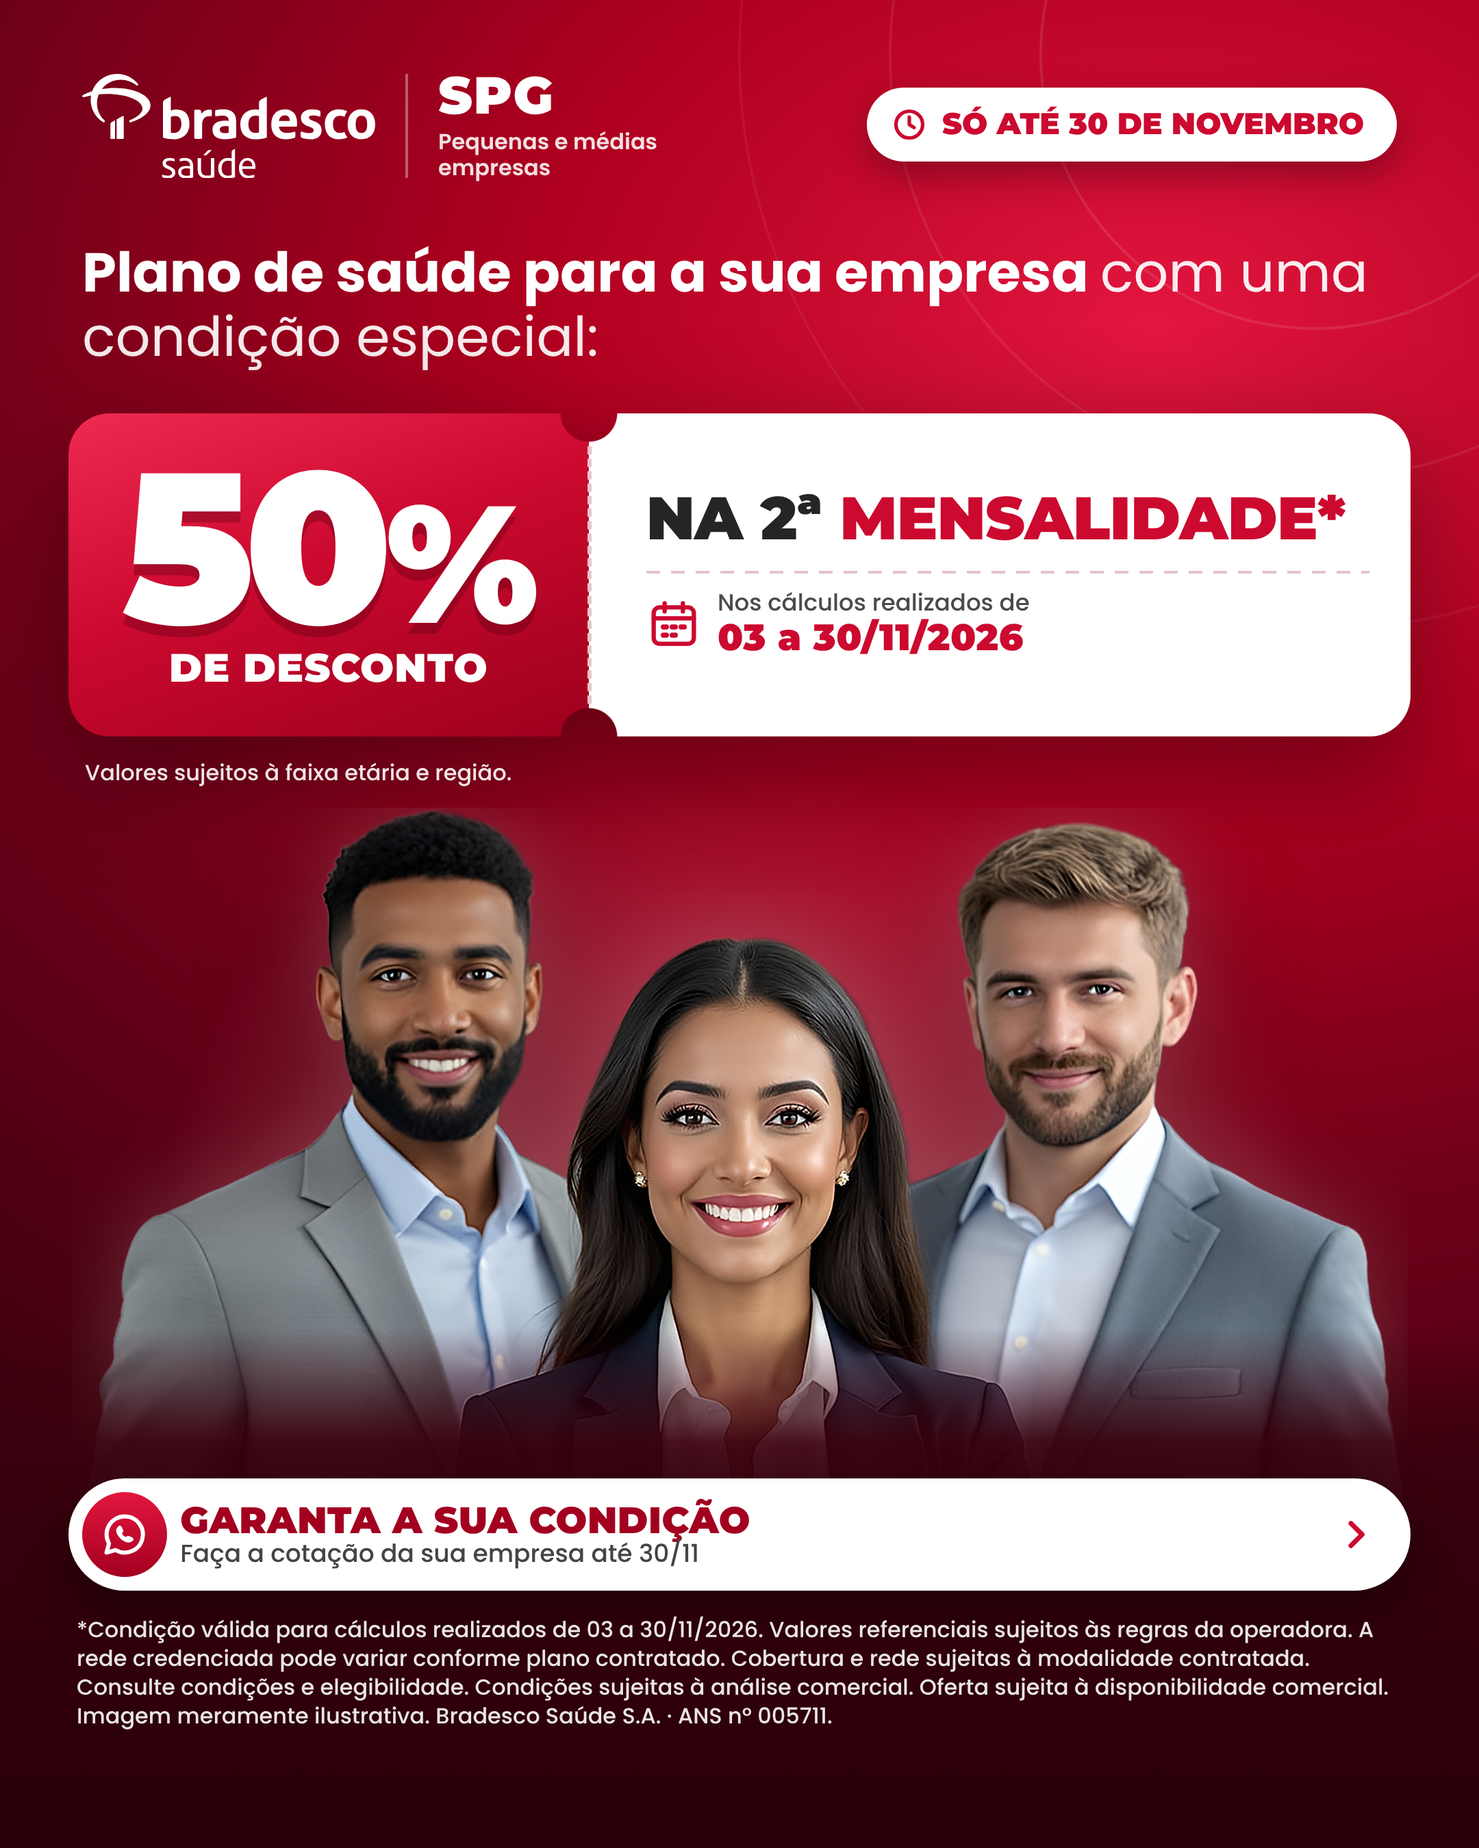
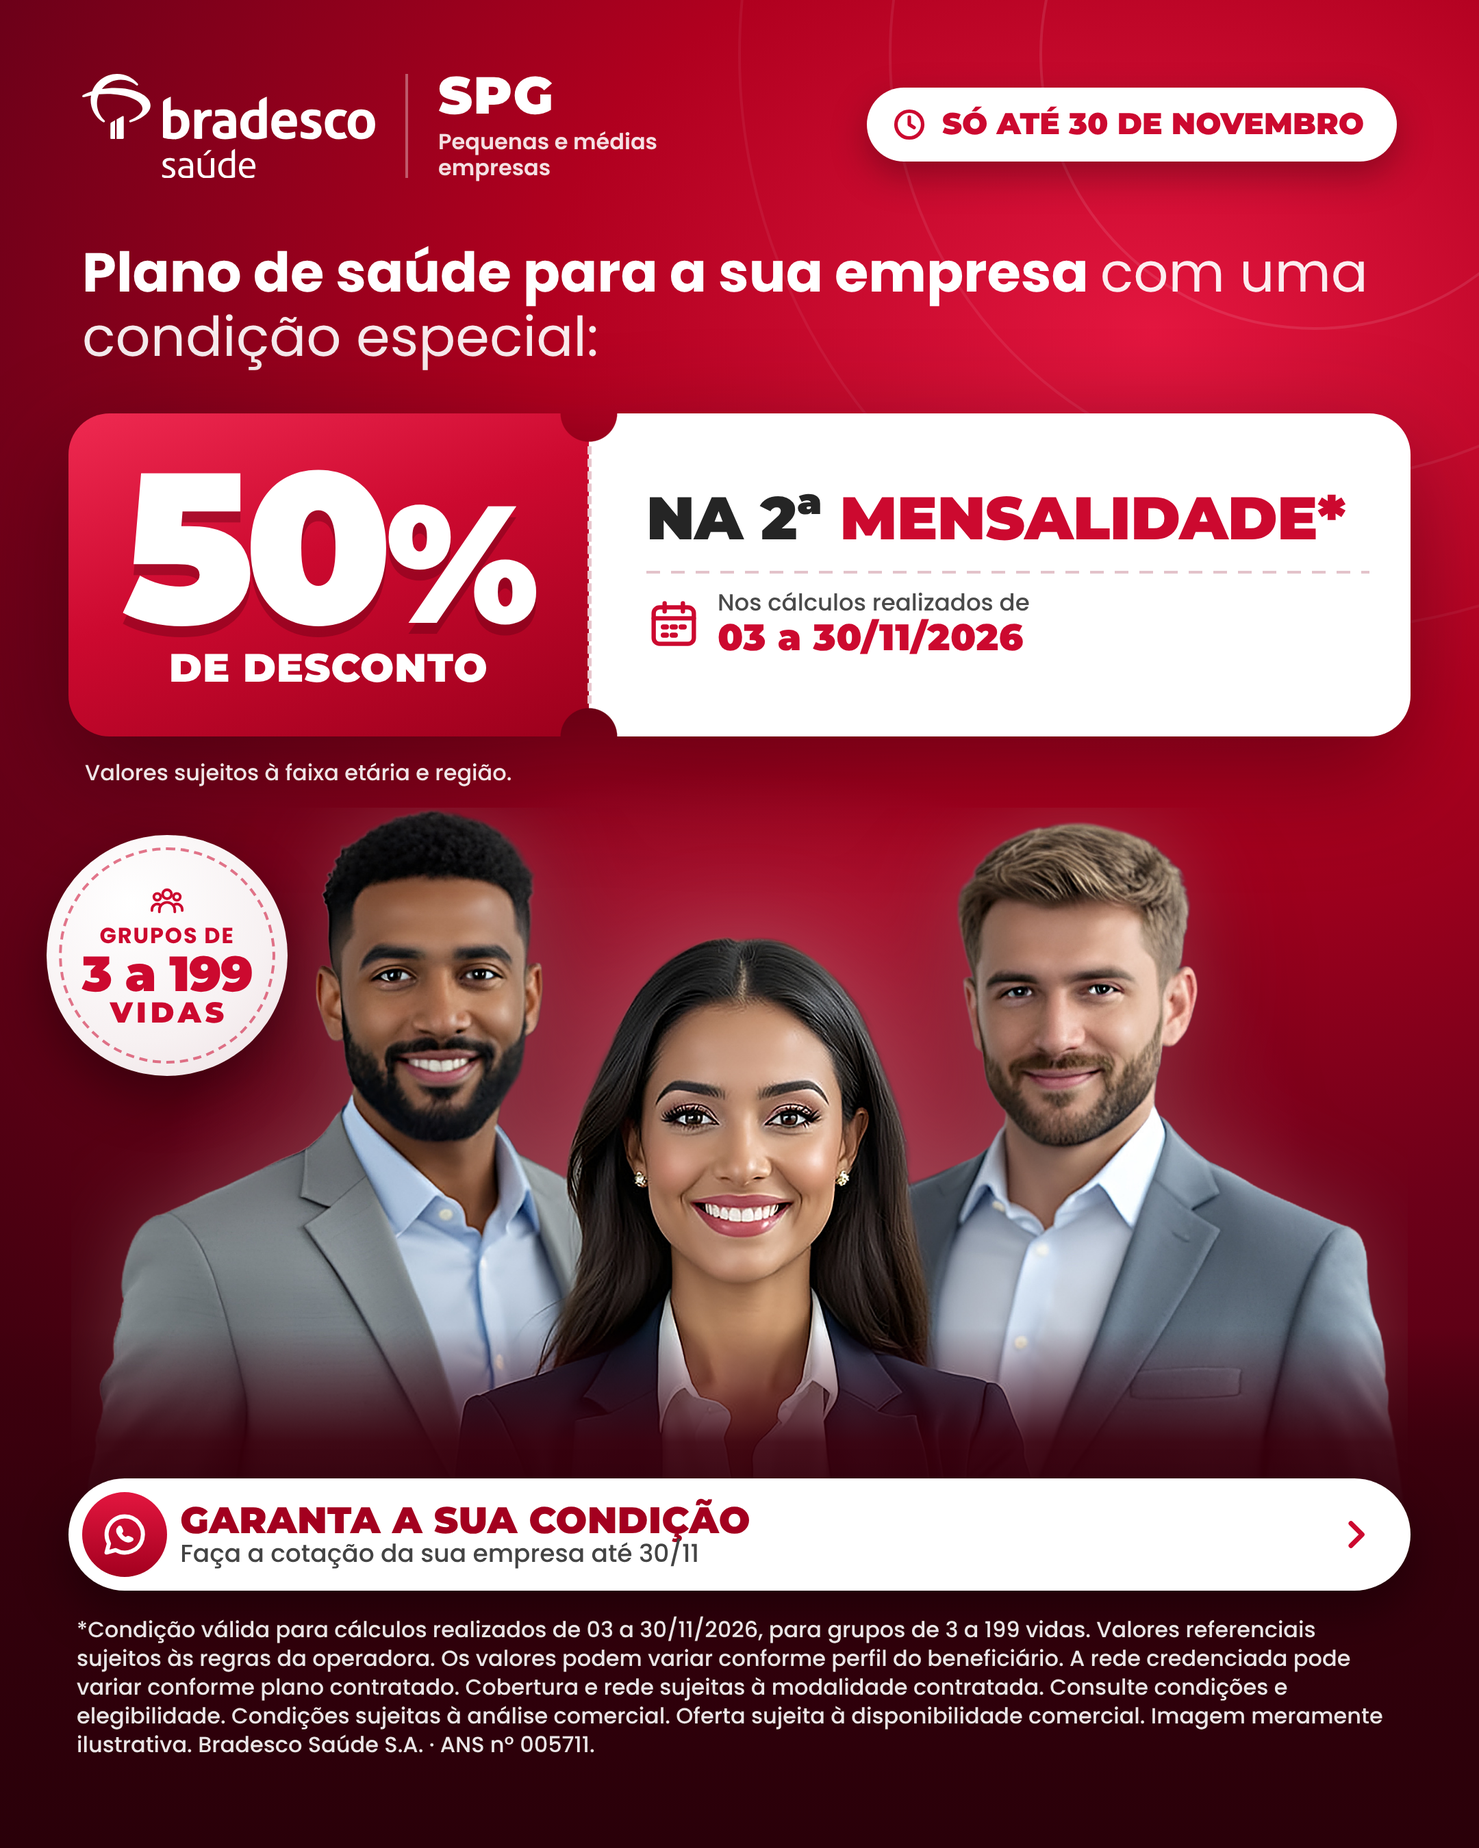
Bradesco SPG: destaque "grupos de 3 a 199 vidas" nas 3 variações
B1 ganha um carimbo vermelho, B2 um carimbo branco e B3 uma faixa logo abaixo
do texto de apoio. No rodapé, a condição passa a citar os grupos de 3 a 199
vidas e entra a observação de quantidade de vidas ("Os valores podem variar
conforme perfil do beneficiário."). Story reajustado para o rodapé de 6 linhas
ficar na zona segura. Figma e Adobe Express atualizados.

Claude-Session: https://claude.ai/code/session_01GQmGjzcDcCg5ZjPiHt6SBp

Changed region(s): [[0.062, 0.8711, 0.9306, 0.9644], [0.031, 0.4356, 0.2171, 0.5911]]

diff --git a/criativos/bradesco-spg-50-novembro/pecas/b3-mensalidades.html b/criativos/bradesco-spg-50-novembro/pecas/b3-mensalidades.html
@@ -48,26 +48,31 @@
   .story .sub { left: 64px; top: 640px; width: 450px; font-size: 25px; }
   .story .halo { left: 360px; top: 260px; width: 860px; height: 860px; }
   .story .pessoas { left: 470px; top: 318px; width: 660px; }
-  .story .boleto.um { left: 62px; top: 958px; width: 420px; height: 214px; padding: 30px 34px; gap: 18px; transform: rotate(-6deg); }
+  .story .boleto.um { left: 62px; top: 938px; width: 420px; height: 214px; padding: 30px 34px; gap: 18px; transform: rotate(-6deg); }
   .story .boleto.um .rot { font-size: 28px; margin-bottom: 4px; }
-  .story .boleto.dois { left: 384px; top: 930px; width: 630px; height: 262px; padding: 26px 34px; transform: rotate(2.5deg); }
+  .story .boleto.dois { left: 384px; top: 910px; width: 630px; height: 262px; padding: 26px 34px; transform: rotate(2.5deg); }
   .story .boleto.dois .topo { gap: 12px; }
   .story .boleto.dois .topo .icone { width: 38px; height: 38px; }
   .story .boleto.dois .topo b { font-size: 28px; }
   .story .boleto.dois .valor { gap: 16px; margin-top: 12px; }
   .story .boleto.dois .pct { font-size: 156px; }
   .story .boleto.dois .off { font-size: 82px; padding-bottom: 8px; }
-  .story .linha-data { left: 64px; top: 1212px; gap: 14px; }
+  .story .linha-data { left: 64px; top: 1186px; gap: 14px; }
   .story .linha-data .icone { width: 44px; height: 44px; }
   .story .linha-data .txt span { font-size: 24px; }
   .story .linha-data .txt b { font-size: 30px; }
-  .story .nota-preco { left: 66px; top: 1262px; font-size: 19px; }
-  .story .cta { left: 56px; right: 56px; top: 1298px; height: 92px; padding: 0 30px 0 12px; }
+  .story .nota-preco { left: 66px; top: 1232px; font-size: 19px; }
+  .story .cta { left: 56px; right: 56px; top: 1272px; height: 92px; padding: 0 30px 0 12px; }
   .story .cta .bolha { width: 70px; height: 70px; }
   .story .cta .txt b { font-size: 31px; }
   .story .cta .txt span { font-size: 21px; }
   .story .cta .seta { width: 34px; height: 34px; }
-  .story .legal { left: 64px; right: 64px; top: 1402px; font-size: 19px; }
+  .story .legal { left: 64px; right: 64px; top: 1374px; font-size: 19px; }
+
+  .story .vidas { left: 64px; top: 766px; height: 86px; padding: 0 34px 0 12px; gap: 16px; }
+  .story .vidas .ic { width: 62px; height: 62px; padding: 13px; }
+  .story .vidas .pre { font-size: 19px; }
+  .story .vidas .num { font-size: 36px; margin-top: 2px; }
 
   /* FEED 4:5 1080x1350 */
   .feed .lockup { left: 60px; top: 54px; height: 76px; gap: 22px; }
@@ -99,6 +104,10 @@
   .feed .cta .txt span { font-size: 18px; }
   .feed .cta .seta { width: 28px; height: 28px; }
   .feed .legal { left: 56px; right: 56px; top: 1104px; font-size: 16px; }
+  .feed .vidas { left: 60px; top: 452px; height: 72px; padding: 0 28px 0 10px; gap: 14px; }
+  .feed .vidas .ic { width: 52px; height: 52px; padding: 11px; }
+  .feed .vidas .pre { font-size: 16px; }
+  .feed .vidas .num { font-size: 30px; margin-top: 1px; }
 </style>
 </head>
 <body data-foto="sim">
@@ -144,6 +153,9 @@
   <div class="cta"><span class="bolha" data-icone="conversa"></span>
     <p class="txt"><b>Simule para a sua empresa</b><span>Peça a sua cotação e aproveite</span></p>
     <span class="seta" data-icone="seta"></span></div>
+
+  <div class="vidas faixa"><span class="ic" data-icone="grupo"></span>
+    <p class="txt"><span class="pre">Para grupos de</span><b class="num">3 a 199 vidas</b></p></div>
 
   <p class="legal"></p>
 

diff --git a/criativos/bradesco-spg-50-novembro/pecas/b1-classico.html b/criativos/bradesco-spg-50-novembro/pecas/b1-classico.html
@@ -53,17 +53,23 @@
   .story .data .txt b { font-size: 33px; }
   .story .nota-preco { left: 66px; top: 982px; font-size: 19px; }
   .story .pessoas { left: 472px; top: 750px; width: 700px; }
-  .story .beneficios { left: 64px; top: 1034px; flex-direction: column; gap: 18px; }
+  .story .beneficios { left: 64px; top: 1030px; flex-direction: column; gap: 14px; }
   .story .beneficios li { gap: 18px; }
   .story .beneficios li.so-feed-li { display: none; }
   .story .beneficios .icone { width: 60px; height: 60px; padding: 13px; }
   .story .beneficios span { font-size: 22px; }
-  .story .cta { left: 56px; right: 56px; top: 1292px; height: 92px; padding: 0 30px 0 12px; }
+  .story .cta { left: 56px; right: 56px; top: 1266px; height: 92px; padding: 0 30px 0 12px; }
   .story .cta .bolha { width: 70px; height: 70px; }
   .story .cta .txt b { font-size: 31px; }
   .story .cta .txt span { font-size: 21px; }
   .story .cta .seta { width: 34px; height: 34px; }
-  .story .legal { left: 64px; right: 64px; top: 1400px; font-size: 19px; }
+  .story .legal { left: 64px; right: 64px; top: 1374px; font-size: 19px; }
+
+  .story .vidas { left: 790px; top: 440px; width: 236px; height: 236px; }
+  .story .vidas .icone { width: 34px; height: 34px; }
+  .story .vidas .pre { font-size: 19px; }
+  .story .vidas .num { font-size: 50px; margin: 4px 0 2px; }
+  .story .vidas .pos { font-size: 28px; }
 
   /* FEED 4:5 1080x1350 */
   .feed .fachada { width: 600px; height: 980px; }
@@ -93,6 +99,11 @@
   .feed .cta .txt span { font-size: 18px; }
   .feed .cta .seta { width: 28px; height: 28px; }
   .feed .legal { left: 56px; right: 56px; top: 1164px; font-size: 16px; }
+  .feed .vidas { left: 506px; top: 452px; width: 196px; height: 196px; }
+  .feed .vidas .icone { width: 28px; height: 28px; }
+  .feed .vidas .pre { font-size: 19px; }
+  .feed .vidas .num { font-size: 40px; margin: 3px 0 2px; }
+  .feed .vidas .pos { font-size: 23px; }
 </style>
 </head>
 <body data-foto="sim">
@@ -159,6 +170,9 @@
   <div class="cta"><span class="bolha" data-icone="conversa"></span>
     <p class="txt"><b>Faça sua cotação</b><span>e aproveite essa condição especial</span></p>
     <span class="seta" data-icone="seta"></span></div>
+
+  <div class="vidas carimbo"><i class="anel"></i><span data-icone="grupo"></span>
+    <p class="pre">Grupos de</p><p class="num">3 a 199</p><p class="pos">vidas</p></div>
 
   <p class="legal"></p>
 

diff --git a/criativos/bradesco-spg-50-novembro/pecas/b2-cupom.html b/criativos/bradesco-spg-50-novembro/pecas/b2-cupom.html
@@ -78,12 +78,18 @@
   .story .pessoas { left: 64px; top: 868px; width: 952px;
     -webkit-mask-image: linear-gradient(to left, transparent 0%, #000 7%); } /* o rapaz da direita encosta na borda da foto */
   .story .rodape { height: 690px; }
-  .story .cta { left: 56px; right: 56px; top: 1292px; height: 94px; padding: 0 30px 0 12px; }
+  .story .cta { left: 56px; right: 56px; top: 1266px; height: 94px; padding: 0 30px 0 12px; }
   .story .cta .bolha { width: 72px; height: 72px; }
   .story .cta .txt b { font-size: 31px; }
   .story .cta .txt span { font-size: 21px; }
   .story .cta .seta { width: 34px; height: 34px; }
-  .story .legal { left: 64px; right: 64px; top: 1402px; font-size: 19px; }
+  .story .legal { left: 64px; right: 64px; top: 1374px; font-size: 19px; }
+
+  .story .vidas { left: 830px; top: 236px; width: 192px; height: 192px; }
+  .story .vidas .icone { width: 28px; height: 28px; }
+  .story .vidas .pre { font-size: 19px; }
+  .story .vidas .num { font-size: 40px; margin: 3px 0 2px; }
+  .story .vidas .pos { font-size: 23px; }
 
   /* FEED 4:5 1080x1350 */
   .feed .lockup { left: 60px; top: 54px; height: 76px; gap: 22px; }
@@ -117,6 +123,11 @@
   .feed .cta .txt span { font-size: 18px; }
   .feed .cta .seta { width: 28px; height: 28px; }
   .feed .legal { left: 56px; right: 56px; top: 1180px; font-size: 16px; }
+  .feed .vidas { left: 34px; top: 610px; width: 176px; height: 176px; }
+  .feed .vidas .icone { width: 26px; height: 26px; }
+  .feed .vidas .pre { font-size: 16px; }
+  .feed .vidas .num { font-size: 36px; margin: 3px 0 2px; }
+  .feed .vidas .pos { font-size: 21px; }
 </style>
 </head>
 <body data-foto="sim">
@@ -158,6 +169,9 @@
   <div class="cta"><span class="bolha" data-icone="conversa"></span>
     <p class="txt"><b>Garanta a sua condição</b><span>Faça a cotação da sua empresa até 30/11</span></p>
     <span class="seta" data-icone="seta"></span></div>
+
+  <div class="vidas carimbo branco"><i class="anel"></i><span data-icone="grupo"></span>
+    <p class="pre">Grupos de</p><p class="num">3 a 199</p><p class="pos">vidas</p></div>
 
   <p class="legal"></p>
 

diff --git a/criativos/bradesco-spg-50-novembro/pecas/base.css b/criativos/bradesco-spg-50-novembro/pecas/base.css
@@ -73,3 +73,21 @@ body.feed { height: 1350px; }
 .cta .seta { width: 1em; height: 1em; flex: none; }
 
 .legal { position: absolute; font-weight: 500; line-height: 1.32; }
+
+/* Grupos de 3 a 199 vidas — selo redondo (carimbo: B1 vermelho, B2 branco) ou faixa (B3) */
+.vidas { position: absolute; color: #fff; }
+.vidas.carimbo { display: flex; flex-direction: column; align-items: center; justify-content: center; text-align: center;
+  border-radius: 50%; background: radial-gradient(circle at 35% 28%, #e3163f 0%, #c0072b 48%, #92001a 100%);
+  box-shadow: 0 18px 36px rgba(90, 0, 18, .35); }
+.vidas.carimbo .anel { position: absolute; inset: 9px; border-radius: 50%; border: 2px dashed rgba(255, 255, 255, .7); }
+.vidas.carimbo.branco { background: radial-gradient(circle at 35% 28%, #ffffff 0%, #f7f1f2 60%, #ecdfe2 100%); color: var(--verm);
+  box-shadow: 0 18px 36px rgba(20, 0, 5, .45); }
+.vidas.carimbo.branco .anel { border-color: rgba(204, 9, 47, .55); }
+.vidas .pre { font-weight: 700; text-transform: uppercase; letter-spacing: .06em; line-height: 1.1; }
+.vidas .num { font-family: var(--mont); font-weight: 900; line-height: .9; letter-spacing: -.02em; white-space: nowrap; }
+.vidas .pos { font-family: var(--mont); font-weight: 900; text-transform: uppercase; letter-spacing: .14em; line-height: 1; padding-left: .14em; }
+.vidas.carimbo .icone { margin-bottom: 4px; }
+.vidas.faixa { display: flex; align-items: center; border-radius: 999px;
+  background: linear-gradient(180deg, var(--verm-claro), var(--verm-esc)); box-shadow: 0 14px 30px rgba(90, 0, 18, .32); }
+.vidas.faixa .ic { display: flex; align-items: center; justify-content: center; border-radius: 50%; background: #fff; color: var(--verm); flex: none; }
+.vidas.faixa .txt { display: flex; flex-direction: column; }

diff --git a/criativos/bradesco-spg-50-novembro/ferramentas/figma-montar.js b/criativos/bradesco-spg-50-novembro/ferramentas/figma-montar.js
@@ -27,7 +27,7 @@ async function montar(pai, itens) {
         n.resize(Math.max(it.w, 0.01), Math.max(it.h, 0.01));
         n.fills = it.k === 'x' ? [] : it.fills;
         if (it.raios) [n.topLeftRadius, n.topRightRadius, n.bottomRightRadius, n.bottomLeftRadius] = it.raios;
-        if (it.stroke) { n.strokes = [solido(it.stroke.color, it.stroke.op)]; n.strokeWeight = it.stroke.peso; n.strokeAlign = 'INSIDE'; }
+        if (it.stroke) { n.strokes = [solido(it.stroke.color, it.stroke.op)]; n.strokeWeight = it.stroke.peso; n.strokeAlign = 'INSIDE'; if (it.stroke.dash) n.dashPattern = [7, 6]; }
         if (it.fx && it.fx.length) n.effects = it.fx;
         if (it.op !== undefined && it.op < 1) n.opacity = it.op;
         pai.appendChild(n); n.x = it.x; n.y = it.y;

diff --git a/criativos/bradesco-spg-50-novembro/pecas/base.js b/criativos/bradesco-spg-50-novembro/pecas/base.js
@@ -5,8 +5,9 @@
 // A observação de valor vai logo abaixo do 50% (.nota-preco); as demais, no rodapé (.legal).
 export const NOTA_PRECO = 'Valores sujeitos à faixa etária e região.';
 export const LEGAL = [
-  '*Condição válida para cálculos realizados de 03 a 30/11/2026.',
+  '*Condição válida para cálculos realizados de 03 a 30/11/2026, para grupos de 3 a 199 vidas.',
   'Valores referenciais sujeitos às regras da operadora.',
+  'Os valores podem variar conforme perfil do beneficiário.',
   'A rede credenciada pode variar conforme plano contratado.',
   'Cobertura e rede sujeitas à modalidade contratada.',
   'Consulte condições e elegibilidade.',

diff --git a/criativos/bradesco-spg-50-novembro/README.md b/criativos/bradesco-spg-50-novembro/README.md
@@ -1,14 +1,14 @@
 # Bradesco Saúde SPG — 50% de desconto na 2ª mensalidade (novembro/2026)
 
 Três variações (Story 1080×1920 e Feed 4:5 1080×1350) da oferta de novembro da Bradesco Saúde SPG:
-**50% de desconto na 2ª mensalidade, nos cálculos realizados de 03 a 30/11/2026**. O texto está voltado
+**50% de desconto na 2ª mensalidade, nos cálculos realizados de 03 a 30/11/2026, para grupos de 3 a 199 vidas**. O texto está voltado
 à empresa que contrata o plano. A referência enviada fala com o corretor ("para o seu cliente").
 
 | Variação | Arquivos | Ideia | Foto (banco `empresarial/hd`) |
 |---|---|---|---|
-| **B1 · Clássico** | `final/b1-classico-{story,feed}.png` | Releitura da peça de referência: fundo claro com fachada de vidro, faixa vermelha no canto, arco do símbolo Bradesco atrás da dupla, 50% gigante, data em cartão, benefícios e botão | `12-dupla-de-socios` |
-| **B2 · Cupom** | `final/b2-cupom-{story,feed}.png` | Urgência premium: fundo vinho com luz vermelha, selo "Só até 30 de novembro", oferta como cupom destacável (furos reais do picote) e o trio de sócios. No Story, o trio fica com os rostos inteiros acima do botão (queixo da moça do meio em y≈1202; botão em y=1292) | `05-trio-socia-ao-centro` |
-| **B3 · Mensalidades** | `final/b3-mensalidades-{story,feed}.png` | Explicativo, para a equipe: título "Plano de saúde para a sua equipe", base vermelha em arco com a 1ª mensalidade ao fundo e a 2ª na frente com 50% OFF | `04-equipe-de-terno` |
+| **B1 · Clássico** | `final/b1-classico-{story,feed}.png` | Releitura da peça de referência: fundo claro com fachada de vidro, faixa vermelha no canto, arco do símbolo Bradesco atrás da dupla, 50% gigante, carimbo vermelho "Grupos de 3 a 199 vidas", data em cartão, benefícios e botão | `12-dupla-de-socios` |
+| **B2 · Cupom** | `final/b2-cupom-{story,feed}.png` | Urgência premium: fundo vinho com luz vermelha, selo "Só até 30 de novembro", oferta como cupom destacável (furos reais do picote), carimbo branco "Grupos de 3 a 199 vidas" e o trio de sócios. No Story, o trio fica com os rostos inteiros acima do botão (queixo da moça do meio em y≈1202; botão em y=1292) | `05-trio-socia-ao-centro` |
+| **B3 · Mensalidades** | `final/b3-mensalidades-{story,feed}.png` | Explicativo, para a equipe: título "Plano de saúde para a sua equipe", faixa vermelha "Para grupos de 3 a 199 vidas" logo abaixo, base vermelha em arco com a 1ª mensalidade ao fundo e a 2ª na frente com 50% OFF | `04-equipe-de-terno` |
 
 PNG em 2x (Story 2160×3840, Feed 2160×2700). Visão geral: `final/_visao-geral.jpg`.
 
@@ -20,8 +20,8 @@ PNG em 2x (Story 2160×3840, Feed 2160×2700). Visão geral: `final/_visao-geral
   com os 6 quadros em camadas editáveis: 83 textos vivos (Montserrat e Poppins), formas e degradês nativos,
   logo e ícones vetoriais, fotos recortadas com máscara de esmaecimento e furos do cupom como máscara booleana.
 - **Adobe Express:** dois documentos editáveis, cada um com as 3 variações como páginas:
-  [Stories (editável, rostos ajustados)](https://new.express.adobe.com/id/urn:aaid:sc:VA6C2:2ac6d815-e060-4994-846d-9036aaa15f42) e
-  [Feed (editável)](https://new.express.adobe.com/id/urn:aaid:sc:VA6C2:03e07050-ae3f-47c6-8201-a5430b0b3858).
+  [3 a 199 vidas · Stories](https://new.express.adobe.com/id/urn:aaid:sc:VA6C2:ea000a45-9f4e-4ae4-8d69-6bf80c393c99) e
+  [3 a 199 vidas · Feed](https://new.express.adobe.com/id/urn:aaid:sc:VA6C2:8244e5c2-a6e2-4dfd-9976-0511546d7f62).
   Os arquivos de apoio ficam na pasta `laks-bradesco-spg` do Creative Cloud.
 
 ## Marca e textos
@@ -43,16 +43,18 @@ Texto exato, em todas as peças:
 - Logo abaixo do 50%: **Valores sujeitos à faixa etária e região.**
 - No rodapé legal:
   - Valores referenciais sujeitos às regras da operadora. (valor/desconto)
+  - Os valores podem variar conforme perfil do beneficiário. (quantidade de vidas)
   - A rede credenciada pode variar conforme plano contratado. (rede referenciada)
   - Cobertura e rede sujeitas à modalidade contratada. (abrangência, reembolso)
   - Consulte condições e elegibilidade. (operadora, empresa)
   - Condições sujeitas à análise comercial. (condição especial, prazo)
   - Oferta sujeita à disponibilidade comercial. (promoção com prazo)
   - Imagem meramente ilustrativa. (fotos de pessoas)
-- O rodapé também traz a condição da oferta: *Condição válida para cálculos realizados de 03 a 30/11/2026. Ao final,
+- O rodapé também traz a condição da oferta: *Condição válida para cálculos realizados de 03 a 30/11/2026, para grupos
+  de 3 a 199 vidas. Ao final,
   vem o registro da operadora: Bradesco Saúde S.A. · ANS nº 005711.
 
-`ferramentas/conferir.mjs` passa nas 6 peças. No Story, todo texto fica entre y=245 e y=1528 (zona segura
+`ferramentas/conferir.mjs` passa nas 6 peças. No Story, todo texto fica entre y=245 e y=1525 (zona segura
 230–1536). A menor fonte é de 19 px no Story e 16 px no Feed. O pior contraste é 4,3:1, num texto grande
 (mínimo de 3:1).
 
